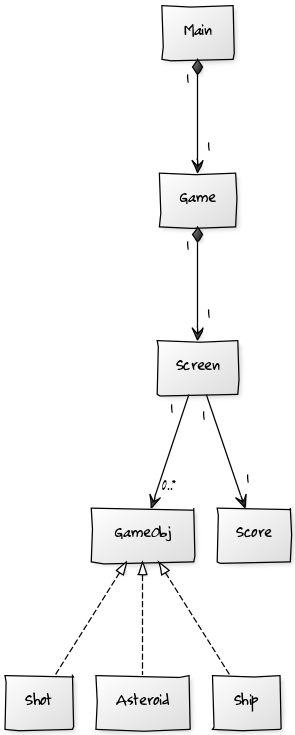
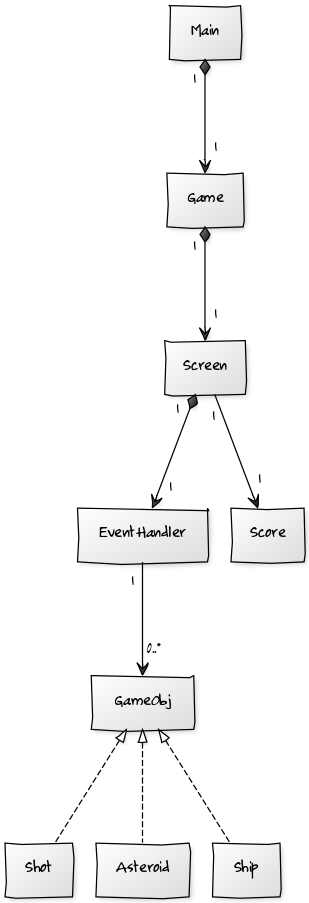
Viilailuja deadlinea varten.

diff --git a/Asteroids/src/test/java/fi/vaalisto/asteroids/logiikka/AsteroidTest.java b/Asteroids/src/test/java/fi/vaalisto/asteroids/logiikka/AsteroidTest.java
@@ -29,7 +29,7 @@ public class AsteroidTest {
     public void setUp() {
         asteroid = new Asteroid(100, 100, 1.0);
     }
-    
+
     @Test
     public void asteroidSpeedIsInRange() {
         assertTrue(Math.abs(asteroid.getxVelocity()) >= 0.75);
@@ -37,7 +37,7 @@ public class AsteroidTest {
         assertTrue(Math.abs(asteroid.getxVelocity()) <= 1.5);
         assertTrue(Math.abs(asteroid.getyVelocity()) <= 1.5);
     }
-    
+
     @Test
     public void trueShotCollisionTest() {
         shot = new Shot(95, 95, 0, 0, 0);
@@ -45,7 +45,7 @@ public class AsteroidTest {
         assertTrue(shot.isDestroyed());
         assertTrue(asteroid.isDestroyed());
     }
-    
+
     @Test
     public void falseShotCollisionTest() {
         shot = new Shot(80, 80, 0, 0, 0);
@@ -53,20 +53,35 @@ public class AsteroidTest {
         assertFalse(shot.isDestroyed());
         assertFalse(asteroid.isDestroyed());
     }
-    
+
     @Test
     public void trueShipCollisionTest() {
         ship = new Ship(95, 95);
         asteroid.checkShipCollision(ship);
         assertTrue(ship.isDestroyed());
     }
-    
+
     @Test
     public void falseShipCollisionTest() {
         ship = new Ship(50, 50);
         asteroid.checkShipCollision(ship);
         assertFalse(ship.isDestroyed());
     }
-   
+
+    @Test
+    public void moveTurnsAsteroid() {
+        double initialAngle = asteroid.getAngle();
+        asteroid.move(800, 600);
+        assertTrue(initialAngle != asteroid.getAngle());
+    }
+
+    @Test
+    public void moveMovesAsteroid() {
+        double initialX = asteroid.getX();
+        double initialY = asteroid.getY();
+        asteroid.move(800, 600);
+        assertTrue(initialX != asteroid.getX());
+        assertTrue(initialY != asteroid.getY());
+    }
 
 }

diff --git a/Asteroids/src/main/java/fi/vaalisto/asteroids/gui/Screen.java b/Asteroids/src/main/java/fi/vaalisto/asteroids/gui/Screen.java
@@ -27,7 +27,7 @@ public class Screen extends JPanel implements Runnable {
     public ArrayList<Shot> shotlist;
     public ArrayList<Shot> deadshotlist;
     public GameKeyListener keylistener;
-    public EventHandler eventhandler;    
+    public EventHandler eventhandler;
 
     private boolean running = true;
     private boolean paused = false;
@@ -46,7 +46,7 @@ public class Screen extends JPanel implements Runnable {
         this.shotlist = new ArrayList<Shot>();
         this.deadshotlist = new ArrayList<Shot>();
         this.setBackground(Color.BLACK);
-        super.setSize(w, h);        
+        super.setSize(w, h);
         this.setFocusable(true); //näppäimistökuuntelija ei toimi ilman tätä
         this.requestFocusInWindow(); //näppäimistökuuntelija ei toimi ilman tätä   
         this.setDoubleBuffered(true);
@@ -100,6 +100,9 @@ public class Screen extends JPanel implements Runnable {
         }
     }
 
+    /**
+     * Vaihdetaan pelin tila tauolle tai sieltä pois.
+     */
     public void changePause() {
         if (this.paused) {
             this.paused = false;
@@ -122,9 +125,6 @@ public class Screen extends JPanel implements Runnable {
         }
     }
 
-    /**
-     * Pelin reaaliaikaisen toiminnan mahdollistava metodi.
-     */
     @Override
     public void run() {
         while (running) {
@@ -142,11 +142,6 @@ public class Screen extends JPanel implements Runnable {
         }
     }
 
-    /**
-     * JPanelilta peritty metodi, joka piirtää kaikki graafiset komponentit.
-     *
-     * @param g grafiikkaan tarvittava luokka
-     */
     @Override
     protected void paintComponent(Graphics g) {
         super.paintComponent(g);

diff --git a/Asteroids/src/test/java/fi/vaalisto/asteroids/logiikka/ShotTest.java b/Asteroids/src/test/java/fi/vaalisto/asteroids/logiikka/ShotTest.java
@@ -23,17 +23,29 @@ public class ShotTest {
     
     @Before
     public void setUp() {
-        shot1 = new Shot(10, 20, 0, 0, 5);
+        shot1 = new Shot(10, 20, Math.PI/4, 0, 5);
     }
     
     @Test
     public void velocitiesRightAtContructor() {
         ship1 = new Ship(0, 0);
         ship1.setyVelocity(5);
-        double shotSpeedX = ship1.getxVelocity() + 4 * Math.sin(shot1.getAngle());
+        double shotSpeedX = ship1.getxVelocity() - 4 * Math.sin(shot1.getAngle());
         double shotSpeedY = ship1.getyVelocity() + 4 * Math.cos(shot1.getAngle());
         assertEquals(shotSpeedX, shot1.getxVelocity(), 0.0);
         assertEquals(shotSpeedY, shot1.getyVelocity(), 0.0);
+    }
+    
+    @Test
+    public void anotherVelocityTest() {
+        shot1 = new Shot(10, 20, Math.PI/4, 5, 0);
+        ship1 = new Ship(0, 0);
+        ship1.setxVelocity(5);
+        double shotSpeedX = ship1.getxVelocity() - 4 * Math.sin(shot1.getAngle());
+        double shotSpeedY = ship1.getyVelocity() + 4 * Math.cos(shot1.getAngle());
+        assertEquals(shotSpeedX, shot1.getxVelocity(), 0.0);
+        assertEquals(shotSpeedY, shot1.getyVelocity(), 0.0);
+        
     }
     
     @Test
@@ -45,6 +57,10 @@ public class ShotTest {
     
     @Test
     public void shotMoves() {
-        
+        double initialX = shot1.getX();
+        double initialY = shot1.getY();
+        shot1.move(800, 600);
+        assertTrue(initialX != shot1.getX());
+        assertTrue(initialY != shot1.getY());
     }
 }

diff --git a/Asteroids/src/test/java/fi/vaalisto/asteroids/logiikka/EventHandlerTest.java b/Asteroids/src/test/java/fi/vaalisto/asteroids/logiikka/EventHandlerTest.java
@@ -35,25 +35,25 @@ public class EventHandlerTest {
     public void shipIsInitalized() {
         assertNotNull(eh.ship);
     }
-    
+
     @Test
     public void asteroidsAreInitalized() {
         assertEquals(4, eh.asteroidlist.size());
     }
-    
+
     @Test
     public void shotIsGenerated() {
         eh.ship.setShooting(true);
         eh.generateShots();
         assertEquals(1, eh.shotlist.size());
     }
-    
+
     @Test
     public void shotIsNotGeneratedWhenNotShooting() {
         eh.generateShots();
         assertEquals(0, eh.shotlist.size());
     }
-    
+
     @Test
     public void tryToEmptyAsteroidList() {
         for (Asteroid a : eh.asteroidlist) {
@@ -63,7 +63,7 @@ public class EventHandlerTest {
         eh.cleanAsteroids();
         assertEquals(0, eh.asteroidlist.size());
     }
-    
+
     @Test
     public void emptyShotListWithMoves() {
         for (Asteroid a : eh.asteroidlist) { //poistetaan ensin alustetut asteroidit, ettei ammus osu niihin
@@ -77,7 +77,7 @@ public class EventHandlerTest {
             eh.updateShots();
             eh.cleanShots();
         }
-        assertEquals(0, eh.shotlist.size());        
+        assertEquals(0, eh.shotlist.size());
         assertEquals(1, eh.deadshotlist.size());
         eh.generateShots();
         for (int i = 0; i < 200; i++) {
@@ -86,6 +86,5 @@ public class EventHandlerTest {
         assertEquals(0, eh.shotlist.size());
         assertEquals(1, eh.deadshotlist.size());
     }
-    
-    
+
 }

diff --git a/Asteroids/src/main/java/fi/vaalisto/asteroids/logiikka/EventHandler.java b/Asteroids/src/main/java/fi/vaalisto/asteroids/logiikka/EventHandler.java
@@ -8,8 +8,9 @@ package fi.vaalisto.asteroids.logiikka;
 import java.util.ArrayList;
 
 /**
+ * EventHandler-luokka huolehtii pelin olioista ja käy erilaiset pelissä olevat
+ * tapahtumat läpi.
  *
- * @author Ville Vaalisto
  */
 public class EventHandler {
 
@@ -26,6 +27,13 @@ public class EventHandler {
     public ArrayList<Shot> shotlist;
     public ArrayList<Shot> deadshotlist;
 
+    /**
+     * Luodaan pelin olioita ja niiden välistä logiikkaa hoitava
+     * tapahtumakäsittelijä.
+     *
+     * @param x peliruudun leveys
+     * @param y peliruudun korkeus
+     */
     public EventHandler(int x, int y) {
         this.x = x;
         this.y = y;
@@ -138,23 +146,22 @@ public class EventHandler {
             shotlist.removeAll(deadshotlist);
         }
     }
-    
+
     /**
      * Poistaa asteroidit, jotka on lisätty siivouslistalle.
      */
-
     public void cleanAsteroids() {
         if (!deadasteroidlist.isEmpty()) {
             asteroidlist.removeAll(deadasteroidlist);
         }
     }
-    
+
     /**
-     * Lasketaan nopeuskerroin asteroideille riippuen kuinka pitkälle peli on edennyt.
-     * 
+     * Lasketaan nopeuskerroin asteroideille riippuen kuinka pitkälle peli on
+     * edennyt.
+     *
      * @return kerroin asteroidien nopeudelle
      */
-    
     private double calculateMultiplier() {
         return this.level / 10 + 0.9;
     }

diff --git a/Asteroids/src/main/java/fi/vaalisto/asteroids/logiikka/Asteroid.java b/Asteroids/src/main/java/fi/vaalisto/asteroids/logiikka/Asteroid.java
@@ -25,6 +25,7 @@ public class Asteroid extends GameObj {
      *
      * @param x asteroidin aloituspaikan x-koordinaatti
      * @param y asteroidin aloituspaikan y-koordinaatti
+     * @param multiplier asteroidin nopeuskerroin
      */
     public Asteroid(int x, int y, double multiplier) {
         this.x = x;
@@ -51,6 +52,11 @@ public class Asteroid extends GameObj {
         }
     }
 
+    /**
+     * Tarkistaa törmääkö asteroidi ammukseen.
+     *
+     * @param shot ammus
+     */
     public void checkShotCollision(Shot shot) {
         if (checkCollision(shot)) {
             shot.setDestroyed(true);

diff --git a/Asteroids/src/main/java/fi/vaalisto/asteroids/logiikka/AsteroidSpawner.java b/Asteroids/src/main/java/fi/vaalisto/asteroids/logiikka/AsteroidSpawner.java
@@ -7,6 +7,14 @@ package fi.vaalisto.asteroids.logiikka;
  */
 public class AsteroidSpawner extends GameObj {
 
+    /**
+     * Konstruktori luo "ympyrän", jonka avulla tarkistetaan onko alus sen
+     * sisällä. Jos ei ole, niin ympyrän keskipisteeseen voidaan luoda
+     * asteroidi.
+     *
+     * @param x x-koordinaatti
+     * @param y y-koordinaatti
+     */
     public AsteroidSpawner(int x, int y) {
         this.x = x;
         this.y = y;

diff --git a/Asteroids/src/main/java/fi/vaalisto/asteroids/gui/GameKeyListener.java b/Asteroids/src/main/java/fi/vaalisto/asteroids/gui/GameKeyListener.java
@@ -20,6 +20,7 @@ public class GameKeyListener implements KeyListener {
      * aluksen.
      *
      * @param ship pelaajan ohjaama alus
+     * @param screen pelin ruutu
      */
     public GameKeyListener(Ship ship, Screen screen) {
         this.ship = ship;

diff --git a/Dokumentaatio/Rakennekuvaus.md b/Dokumentaatio/Rakennekuvaus.md
@@ -1,0 +1,5 @@
+## Rakennekuvaus
+
+Peli koostuu graafisen käyttöliittymän ja pelilogiikan paketeista. Graafisessa paketissa on pelin käynnistämiseen Main-luokka, joka käynnistää Game-luokan olion. Se on käytännössä vain JFrame, jonka käynnistää taas JPanelia laajentavan Screen-luokan. Screen huolehtii pelin grafiikan piirtämisestä ja siihen myös liitetään pelin logiikkaa hoitavat luokat ja näppäimistökuuntelija. Screeniin on myös toteutettu pelin reaaliaikaisesta toiminnasta vastaava metodi, joka hyödyntää säiettä.
+
+Pelilogiikka on graafiseen toteutukseen yhteydessä EventHandler-luokan kautta, joka on Screen-oliossa attribuuttina. Eventhandler-olio sisältää listoissa abstraktia GameObj-luokkaa laajentavia olioita, joita ovat Ship, Asteroid ja Shot. EventHander-huolehtii näiden väliset toiminnallisuudet ja siten pelilogiikan, joka välittyy pelaajalle pelikokemuksena ja pelin sääntöinä.

diff --git a/Dokumentaatio/Aihemaarittely.md b/Dokumentaatio/Aihemaarittely.md
@@ -13,7 +13,9 @@
 * Pistelaskuriin kertyy pisteitä, kun ammuttu ammus tuhoaa asteroideja
 * Pistetulos tallentuu ja sen yhteyteen voi kirjoittaa nimensä.
 
-**Ohjeet:** Nuolet sivuille kääntävät alusta, nuoli ylös kiihdyttää ja välilyönti ampuu.
+**Ohjeet:** Nuolet sivuille kääntävät alusta, nuoli ylös kiihdyttää ja välilyönti ampuu. P tauottaa pelin.
+
+[Rakennekuvaus](Rakennekuvaus.md)
 
 ### Luokkakaavio
 ![Luokkakaavio](Luokkakaavio.png)

diff --git a/Dokumentaatio/Tuntikirjanpito.md b/Dokumentaatio/Tuntikirjanpito.md
@@ -20,3 +20,4 @@ Päivä | Tunnit | Kuvaus
 20.02.2017 | 3h | Siirretty selkeästi pelilogiikkaa olevat asiat omaan luokkaansa Screen-luokasta. Toteutettu objektien törmäykset ja nyt asteroideja voi tuhota ampumalla.
 21.02.2017 | 1h | Tehty lisää testejä.
 22.02.2017 | 2h | Asteroidit syntyvät nyt turvallisesti ja aaltoja tulee loputtomiin.
+24.02.2017 | 4h | Tehty pieniä muutoksia, lisää testejä ja valmisteltu kuudetta palautusta varten.
